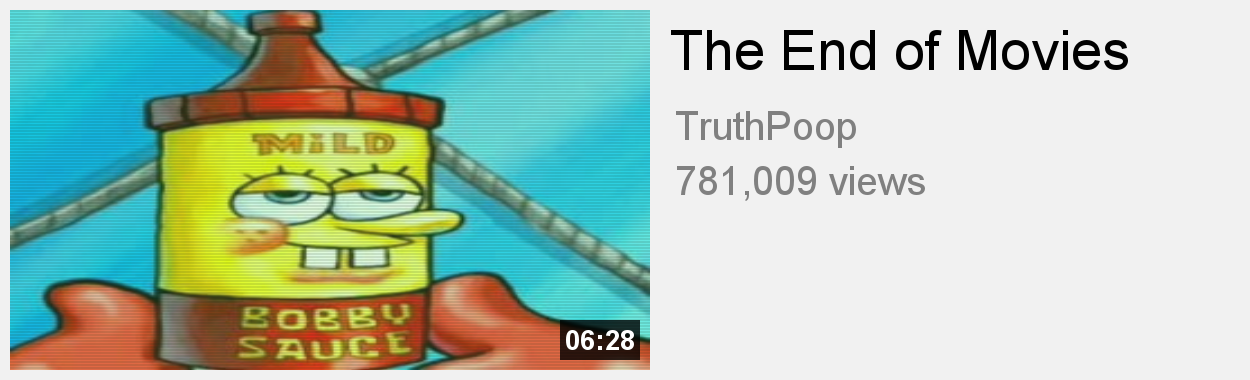
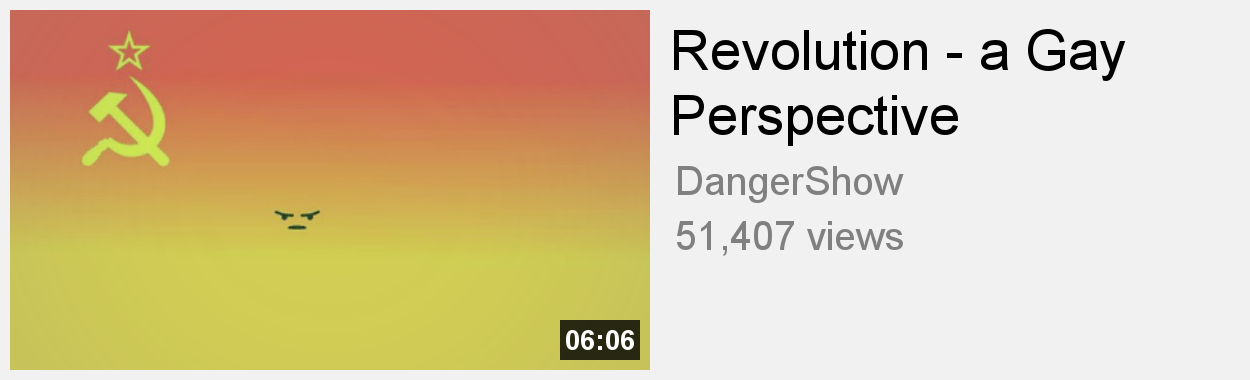
text wrapping fixed

diff --git a/bot.js b/bot.js
@@ -100,7 +100,6 @@ function genName(upload) {
 async function genImg(upload) {
     var titleObj = genTitle();
     var title = titleObj.title;
-    var titleWrap = wordWrap(title, 19);
     var keywords = titleObj.keywords;
     var time = genTime();
     var views = genViews();
@@ -146,16 +145,16 @@ async function genImg(upload) {
         var files = fs.readdirSync('./filters/')
         let filter = files[Math.floor(Math.random() * files.length)] 
 
-        await loadImage(`filters/${filter}`).then((image) => { // random aesthetic filter
-            ctx.drawImage(image, 10, 10, 640, 360);
-        });
-
         var randomColor = require('randomcolor');
         var color = randomColor();
         ctx.fillStyle = color;
         ctx.globalAlpha = 0.2;
         ctx.fillRect(10, 10, 640, 360); // random hue overlay
         ctx.globalAlpha = 1;
+
+        await loadImage(`filters/${filter}`).then((image) => { // random aesthetic filter
+            ctx.drawImage(image, 10, 10, 640, 360);
+        });
         
         if (Math.random() > 0.95) { // 5% chance of vhs text
             await loadImage('vhs.png').then((image) => {
@@ -165,9 +164,46 @@ async function genImg(upload) {
 
         ctx.fillStyle = 'black';
         ctx.font = '55px Arial';
-        ctx.fillText(titleWrap, 670, 70);
+        var words = title.split(' '),
+            line = '',
+            lineCount = 0,
+            i,
+            test,
+            metrics,
+            x = 670,
+            y = 70,
+            lineHeight = 65,
+            maxWidth = 550;
 
-        var displacement = (countLines(titleWrap) * 55) + 85;
+        for (i = 0; i < words.length; i++) { // text wrapping algo
+            test = words[i];
+            metrics = ctx.measureText(test);
+            while (metrics.width > maxWidth) {
+                test = test.substring(0, test.length - 1);
+                metrics = ctx.measureText(test);
+            }
+            if (words[i] != test) {
+                words.splice(i + 1, 0,  words[i].substr(test.length))
+                words[i] = test;
+            }  
+
+            test = line + words[i] + ' ';  
+            metrics = ctx.measureText(test);
+            
+            if (metrics.width > maxWidth && i > 0) {
+                ctx.fillText(line, x, y);
+                line = words[i] + ' ';
+                y += lineHeight;
+                lineCount++;
+            }
+            else {
+                line = test;
+            }
+        }
+
+        ctx.fillText(line, x, y);
+
+        var displacement = ((lineCount + 1) * 55) + 85;
         ctx.fillStyle = 'grey';
         ctx.font = '40px Arial';
         ctx.fillText(name, 675, displacement);
@@ -194,6 +230,15 @@ async function genImg(upload) {
         ctx.fillRect(0, 0, 640, 360);
 
         await loadImage('thumb.jpg').then((image) => {
+            ctx.drawImage(image, 0, 0, 640, 360);
+        });
+
+        ctx.fillStyle = color;
+        ctx.globalAlpha = 0.2;
+        ctx.fillRect(0, 0, 640, 360); // random hue overlay
+        ctx.globalAlpha = 1;
+
+        await loadImage(`filters/${filter}`).then((image) => { // random aesthetic filter
             ctx.drawImage(image, 0, 0, 640, 360);
         });
 
@@ -248,49 +293,6 @@ async function genImg(upload) {
             }
         }
     }.bind({upload:upload}));
-}
-
-/**
- * Wraps text string for img formatting
- * Stolen from https://stackoverflow.com/questions/14484787/wrap-text-in-javascript
- */
-function wordWrap(str, maxWidth) {
-    var newLineStr = '\n'; done = false; res = '';
-    while (str.length > maxWidth) {                 
-        found = false;
-        // Inserts new line at first whitespace of the line
-        for (i = maxWidth - 1; i >= 0; i--) {
-            if (testWhite(str.charAt(i))) {
-                res = res + [str.slice(0, i), newLineStr].join('');
-                str = str.slice(i + 1);
-                found = true;
-                break;
-            }
-        }
-        // Inserts new line at maxWidth position, the word is too long to wrap
-        if (!found) {
-            res += [str.slice(0, maxWidth), newLineStr].join('');
-            str = str.slice(maxWidth);
-        }
-    }
-    return res + str;
-}
-function testWhite(x) {
-    var white = new RegExp(/^\s$/);
-    return white.test(x.charAt(0));
-};
-
-/**
- * Counts number of lines in a string
- */
-function countLines(str) {
-    var count = 1;
-    for (var i = 0; i < str.length; i++) {
-        if (str.charAt(i) == '\n') {
-            count++;
-        }
-    }
-    return count;
 }
 
 
